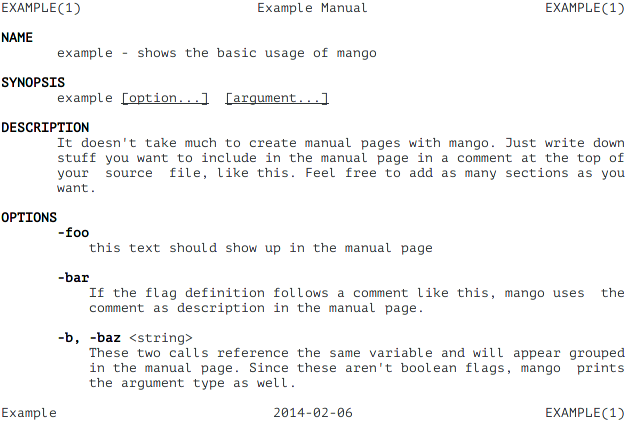
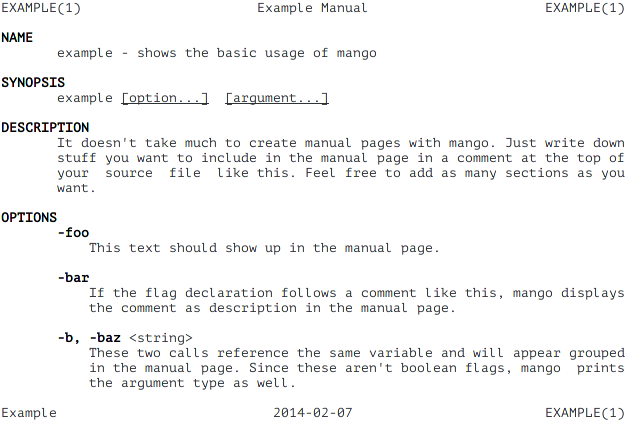
updated example

Changed region(s): [[0.1212, 0.6777, 1.0, 0.7393], [0.5455, 0.955, 0.5758, 0.9858]]

diff --git a/example/example.go b/example/example.go
@@ -4,7 +4,7 @@
 //
 // It doesn't take much to create manual pages with mango. Just write down
 // stuff you want to include in the manual page in a comment at the top
-// of your source file, like this. Feel free to add as many sections as you
+// of your source file like this. Feel free to add as many sections as you
 // want.
 package main
 
@@ -13,11 +13,11 @@ import (
 )
 
 var (
-	optFoo = flag.Bool("foo", false, "this text should show up in the manual page")
+	optFoo = flag.Bool("foo", false, "This text should show up in the manual page.")
 
-	// If the flag definition follows a comment like this, mango uses the
+	// If the flag declaration follows a comment like this, mango displays the
 	// comment as description in the manual page.
-	optBar = flag.Bool("bar", false, "the above comment should show up in the manual page")
+	optBar = flag.Bool("bar", false, "The above comment should show up in the manual page.")
 	optBaz = ""
 )
 
@@ -25,8 +25,8 @@ func init() {
 	// These two calls reference the same variable and will appear
 	// grouped in the manual page. Since these aren't boolean flags, mango
 	// prints the argument type as well.
-	flag.StringVar(&optBaz, "baz", "", "two calls, but one entry in the manual")
-	flag.StringVar(&optBaz, "b", "", "two calls, but one entry in the manual")
+	flag.StringVar(&optBaz, "baz", "", "Two calls, but one entry in the manual.")
+	flag.StringVar(&optBaz, "b", "", "Two calls, but one entry in the manual.")
 }
 
 func main() {

diff --git a/README.md b/README.md
@@ -35,7 +35,7 @@ mango file1.go file2.go ...
 //
 // It doesn't take much to create manual pages with mango. Just write down
 // stuff you want to include in the manual page in a comment at the top
-// of your source file, like this. Feel free to add as many sections as you
+// of your source file like this. Feel free to add as many sections as you
 // want.
 package main
 
@@ -44,11 +44,11 @@ import (
 )
 
 var (
-	optFoo = flag.Bool("foo", false, "this text should show up in the manual page")
+	optFoo = flag.Bool("foo", false, "This text should show up in the manual page.")
 
-	// If the flag definition follows a comment like this, mango uses the
+	// If the flag declaration follows a comment like this, mango displays the
 	// comment as description in the manual page.
-	optBar = flag.Bool("bar", false, "the above comment should show up in the manual page")
+	optBar = flag.Bool("bar", false, "The above comment should show up in the manual page.")
 	optBaz = ""
 )
 
@@ -56,8 +56,8 @@ func init() {
 	// These two calls reference the same variable and will appear
 	// grouped in the manual page. Since these aren't boolean flags, mango
 	// prints the argument type as well.
-	flag.StringVar(&optBaz, "baz", "", "two calls, but one entry in the manual")
-	flag.StringVar(&optBaz, "b", "", "two calls, but one entry in the manual")
+	flag.StringVar(&optBaz, "baz", "", "Two calls, but one entry in the manual.")
+	flag.StringVar(&optBaz, "b", "", "Two calls, but one entry in the manual.")
 }
 
 func main() {
